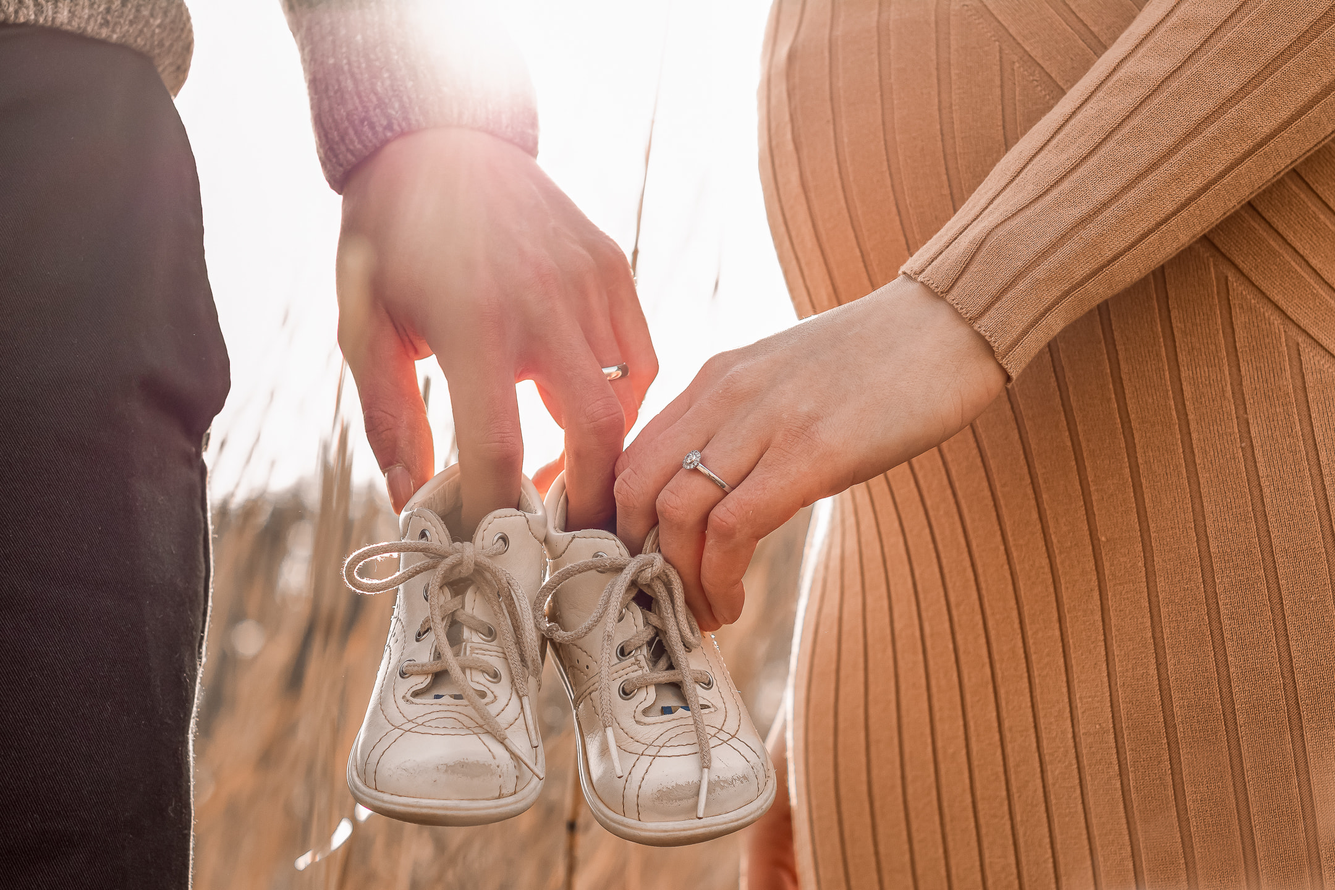
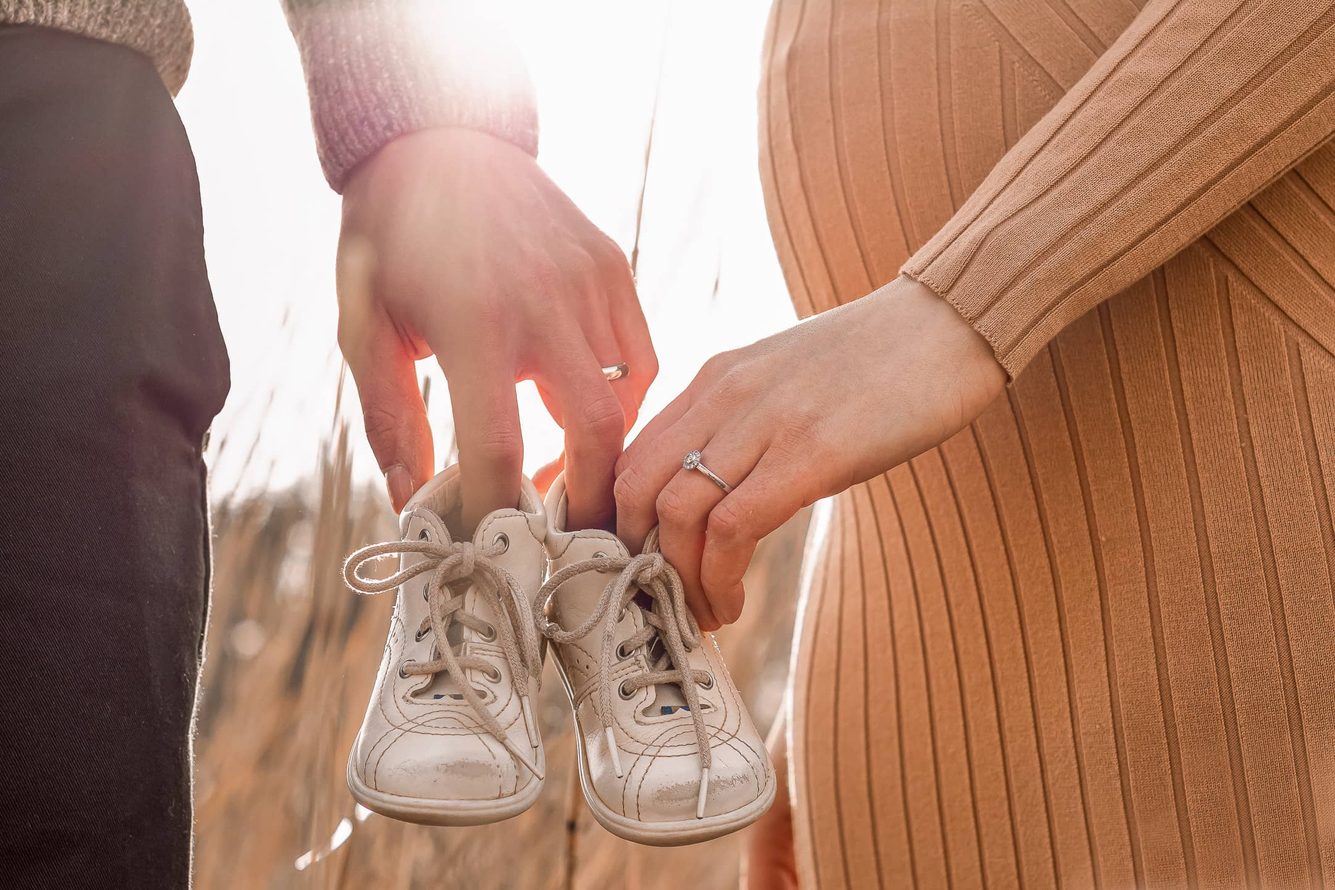
Reduce img sizes and accessability improvements

diff --git a/src/css/App.css b/src/css/App.css
@@ -35,26 +35,31 @@ label, li, a {
 @font-face {
   font-family: 'Antonio-Bold';
   src: local('Antonio-Bold'), url(../fonts/Antonio-Bold.ttf) format('truetype');
+  font-display: swap;
 }
 
 @font-face {
   font-family: 'CrimsonPro-VariableFont_wght';
   src: local('CrimsonPro-VariableFont_wght'), url(../fonts/CrimsonPro-VariableFont_wght.ttf) format('truetype');
+  font-display: swap;
 }
 
 @font-face {
   font-family: 'CormorantGaramond-Bold';
   src: local('CormorantGaramond-Bold'), url(../fonts/CormorantGaramond-Bold.ttf) format('truetype');
+  font-display: swap;
 }
 
 @font-face {
   font-family: 'Roboto-Regular';
   src: local('Roboto-Regular'), url(../fonts/Roboto-Regular.ttf) format('truetype');
+  font-display: swap;
 }
 
 @font-face {
   font-family: 'Roboto-Bold';
   src: local('Roboto-Bold'), url(../fonts/Roboto-Bold.ttf) format('truetype');
+  font-display: swap;
 }
 
 img {

diff --git a/src/components/ToTopButtonSimple.tsx b/src/components/ToTopButtonSimple.tsx
@@ -7,7 +7,11 @@ const goToTop = () => {
 };
 const ToTopButtonSimple = () => {
   return (
-    <button className="toTopButtonSimple" onClick={goToTop}>
+    <button
+      className="toTopButtonSimple"
+      aria-label="Back to top"
+      onClick={goToTop}
+    >
       <Up
         fill="#ffffff"
         stroke="#ffffff"
